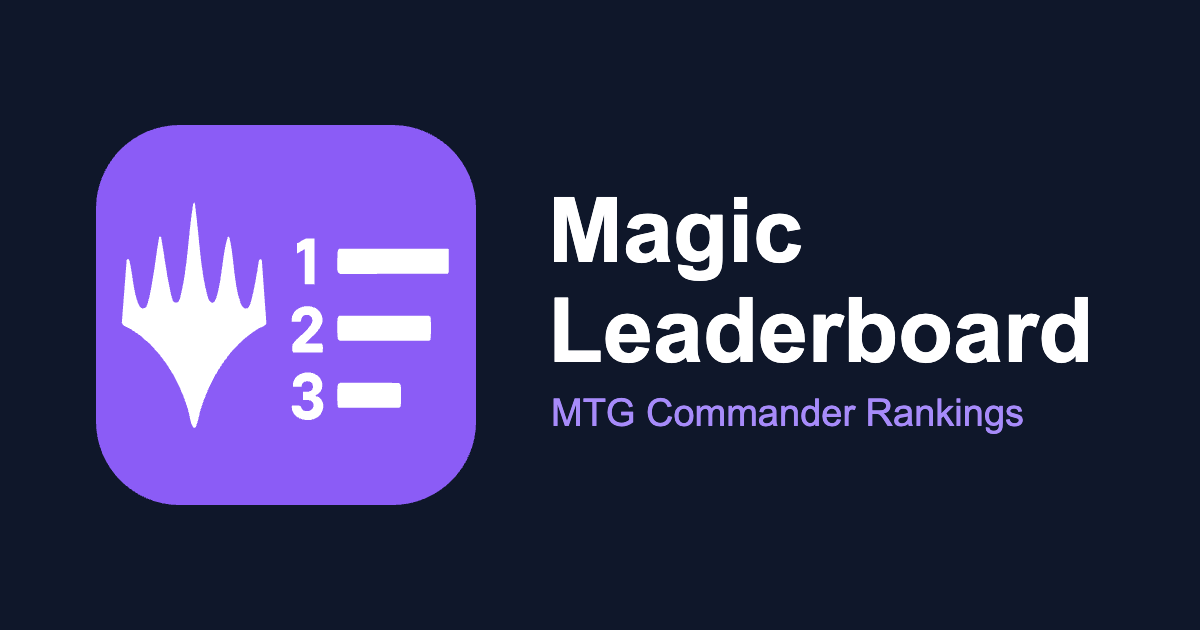
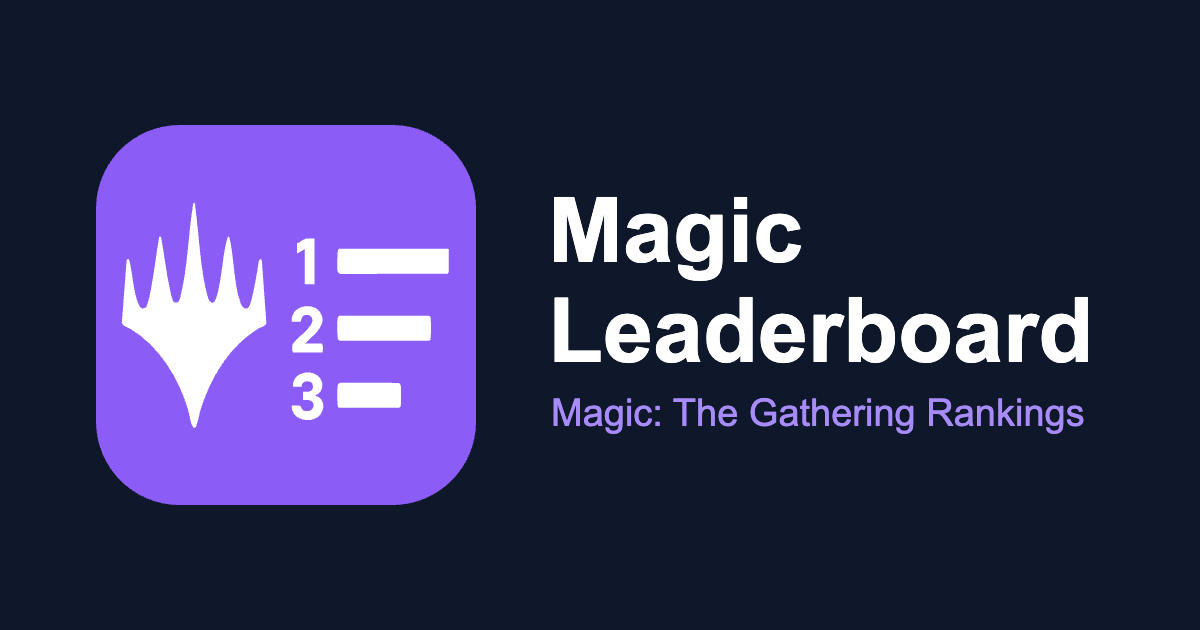
chore(branding): generalize copy beyond Commander
Replace "Commander" wording with "Magic: The Gathering" across the
share card, page title, og/twitter title + descriptions, and the PWA
manifest, since the app won't be Commander-exclusive going forward.

Changed region(s): [[0.4625, 0.6333, 0.925, 0.6937]]

diff --git a/frontend/index.html b/frontend/index.html
@@ -3,8 +3,8 @@
   <head>
     <meta charset="UTF-8" />
     <meta name="viewport" content="width=device-width, initial-scale=1.0, viewport-fit=cover" />
-    <title>Magic Leaderboard - MTG Commander Rankings</title>
-    <meta name="description" content="Track Magic: The Gathering Commander game results and player rankings for casual tournaments. Log games, manage players, and view leaderboards." />
+    <title>Magic Leaderboard - Magic: The Gathering Rankings</title>
+    <meta name="description" content="Track Magic: The Gathering game results and player rankings for casual tournaments. Log games, manage players, and view leaderboards." />
 
     <!-- Standalone PWA (installed/home-screen app) -->
     <meta name="apple-mobile-web-app-capable" content="yes" />
@@ -20,8 +20,8 @@
     
     <!-- Open Graph meta tags for link preview -->
     <meta property="og:type" content="website" />
-    <meta property="og:title" content="Magic Leaderboard - MTG Commander Rankings" />
-    <meta property="og:description" content="Track Magic: The Gathering Commander game results and player rankings for casual tournaments." />
+    <meta property="og:title" content="Magic Leaderboard - Magic: The Gathering Rankings" />
+    <meta property="og:description" content="Track Magic: The Gathering game results and player rankings for casual tournaments." />
     <meta property="og:image" content="https://l3vi.github.io/magic-leaderboard/og-image.png?v=2" />
     <meta property="og:image:width" content="1200" />
     <meta property="og:image:height" content="630" />
@@ -30,8 +30,8 @@
     
     <!-- Twitter Card meta tags -->
     <meta name="twitter:card" content="summary_large_image" />
-    <meta name="twitter:title" content="Magic Leaderboard - MTG Commander Rankings" />
-    <meta name="twitter:description" content="Track MTG Commander game results and player rankings for casual tournaments." />
+    <meta name="twitter:title" content="Magic Leaderboard - Magic: The Gathering Rankings" />
+    <meta name="twitter:description" content="Track Magic: The Gathering game results and player rankings for casual tournaments." />
     <meta name="twitter:image" content="https://l3vi.github.io/magic-leaderboard/og-image.png?v=2" />
   </head>
   <body>
